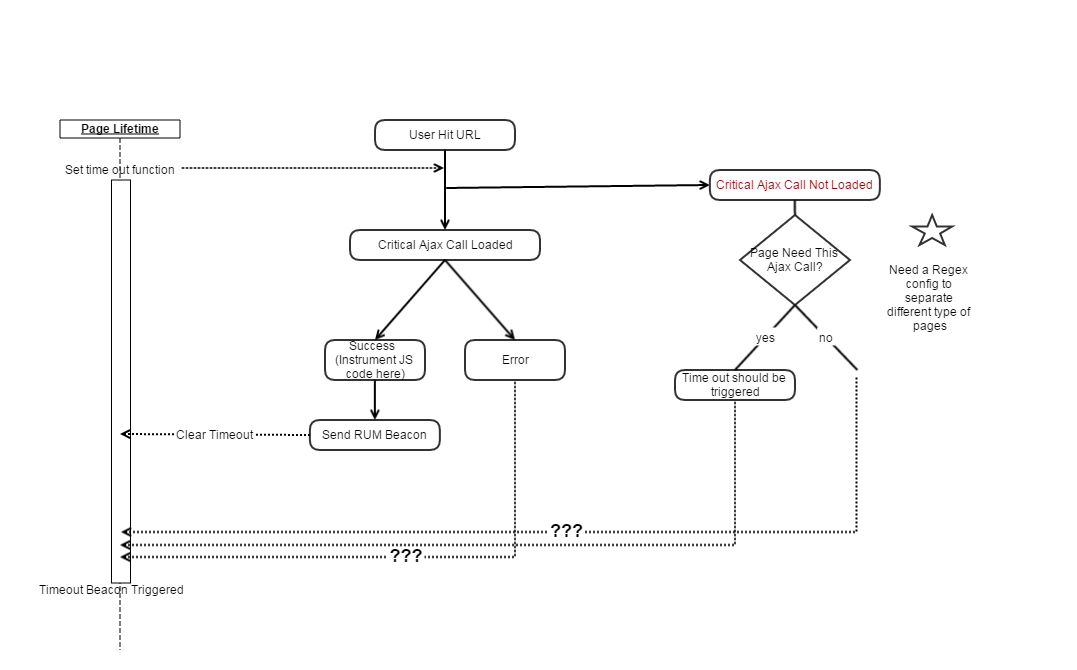
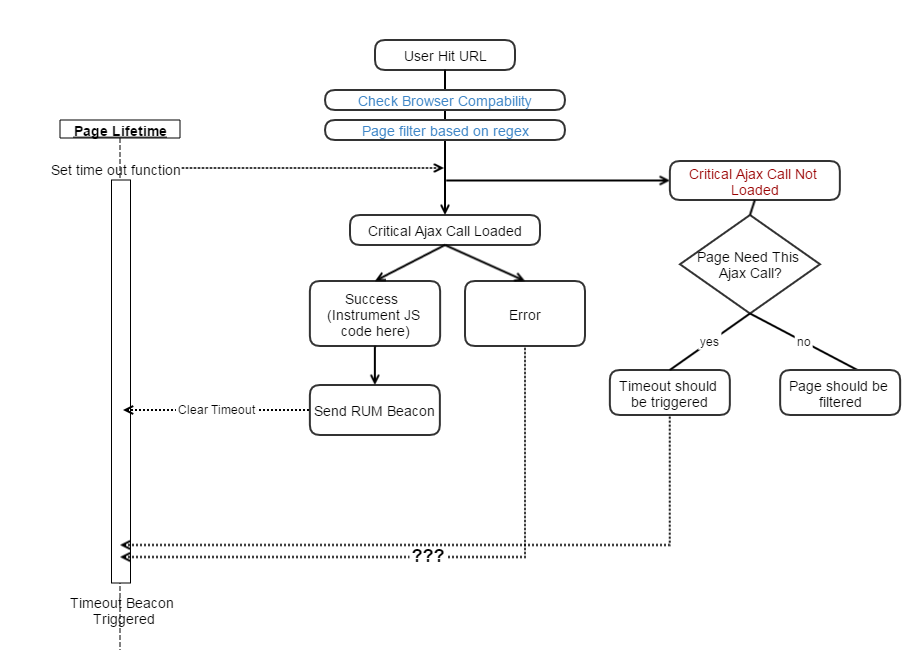
Update Workflow and add check browser compability

diff --git a/arowana/public/resources/boomerang/boomerang.js b/arowana/public/resources/boomerang/boomerang.js
@@ -239,6 +239,8 @@ impl = {
     
     beacon_switch: true,
     
+    page_regex: "",
+    
 	events: {
 		"page_ready": [],
 		"page_unload": [],
@@ -392,7 +394,6 @@ boomr = {
 	    encodeString: function(str){
 	    	// Create Base64 Object
[1 lines of base64/hex data omitted]
-			
 			// Encode the String
 			return Base64.encode(str);
 		
@@ -715,7 +716,7 @@ boomr = {
 
 	init: function(config) {
 		var i, k,
-		    properties = ["beacon_url", "beacon_type", "site_domain", "user_ip", "strip_query_string", "secondary_beacons", "timeout", "beacon_switch"];
+		    properties = ["beacon_url", "beacon_type", "site_domain", "user_ip", "strip_query_string", "secondary_beacons", "timeout", "beacon_switch","page_regex"];
 
 		BOOMR_check_doc_domain();
 
@@ -728,14 +729,14 @@ boomr = {
 				impl[properties[i]] = config[properties[i]];
 			}
 		}
-
-		if(config.log !== undefined) {
-			this.log = config.log;
-		}
-		if(!this.log) {
-			this.log = function(/* m,l,s */) {};
-		}
 		
+		if(window.performance && window.performance.now && window.performance.timing && window.performance.getEntriesByType){
+			console.log("window.performance is supported");
+		}else{
+			console.log("BOOMR is not initiated because window.performance is not supported!");
+			return;
+		}
+
         if(impl.beacon_switch === true){
 			// set timeout to beacon
 			var t = impl.timeout;
@@ -744,6 +745,18 @@ boomr = {
 	                BOOMR.page_ready();
 	            }, t);
         }
+        
+        if(impl.page_regex !== ""){
+        	//filter page . to be continued
+        }
+        
+		if(config.log !== undefined) {
+			this.log = config.log;
+		}
+		if(!this.log) {
+			this.log = function(/* m,l,s */) {};
+		}
+		
 
 		for(k in this.plugins) {
 			if(this.plugins.hasOwnProperty(k)) {
@@ -1026,7 +1039,6 @@ boomr = {
 		     	BOOMR.debug("Hey I'm clearing vars."+ name);
 			}
 		}
-	
 	},
 
 	hasVar: function(name) {
